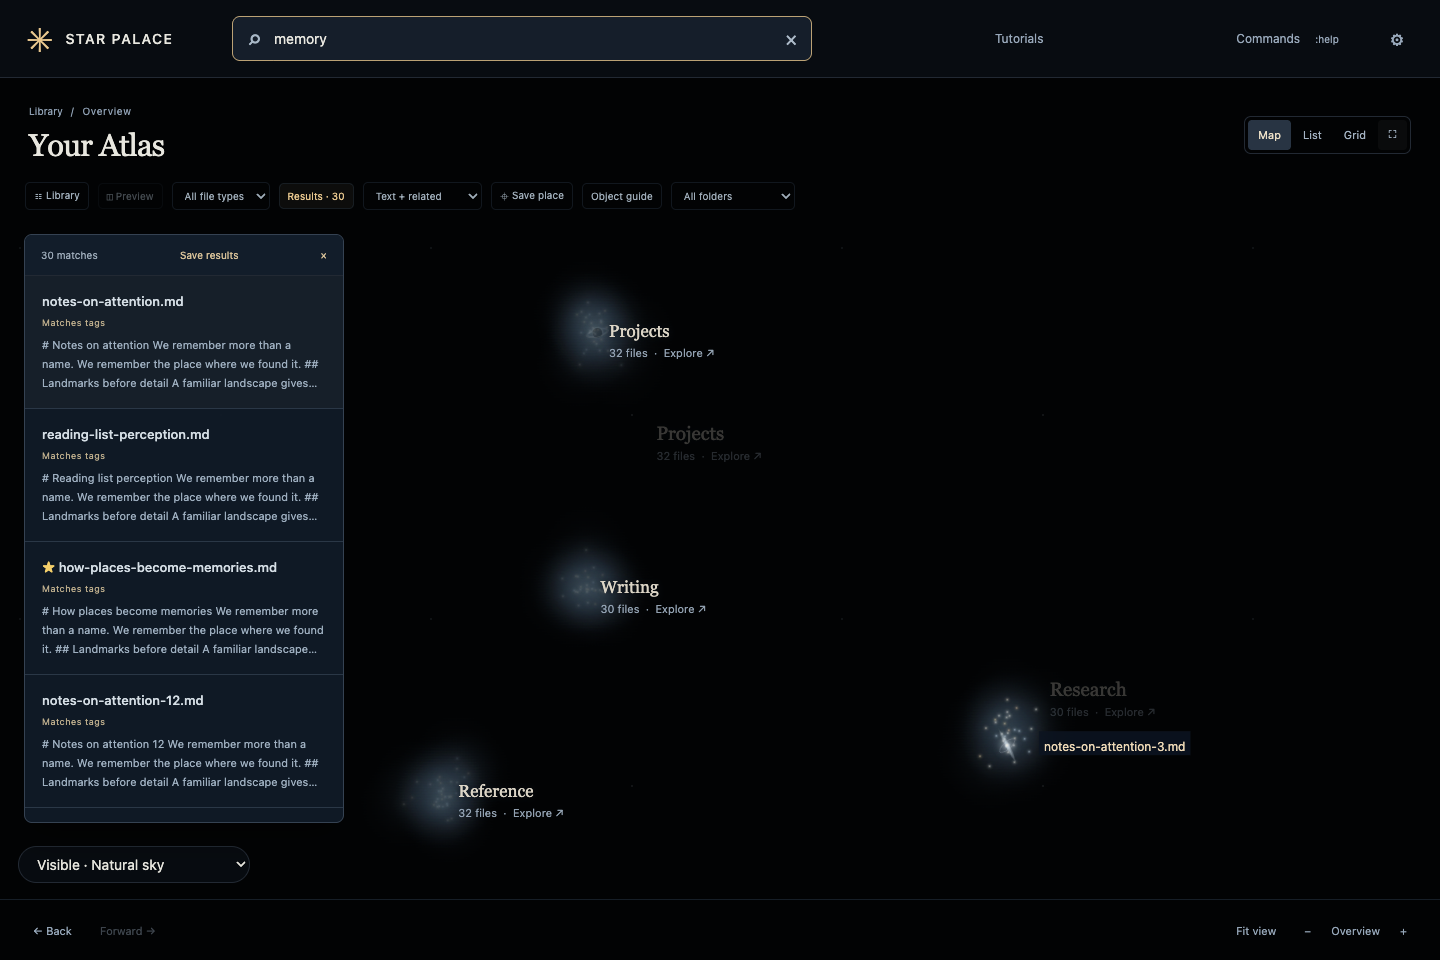
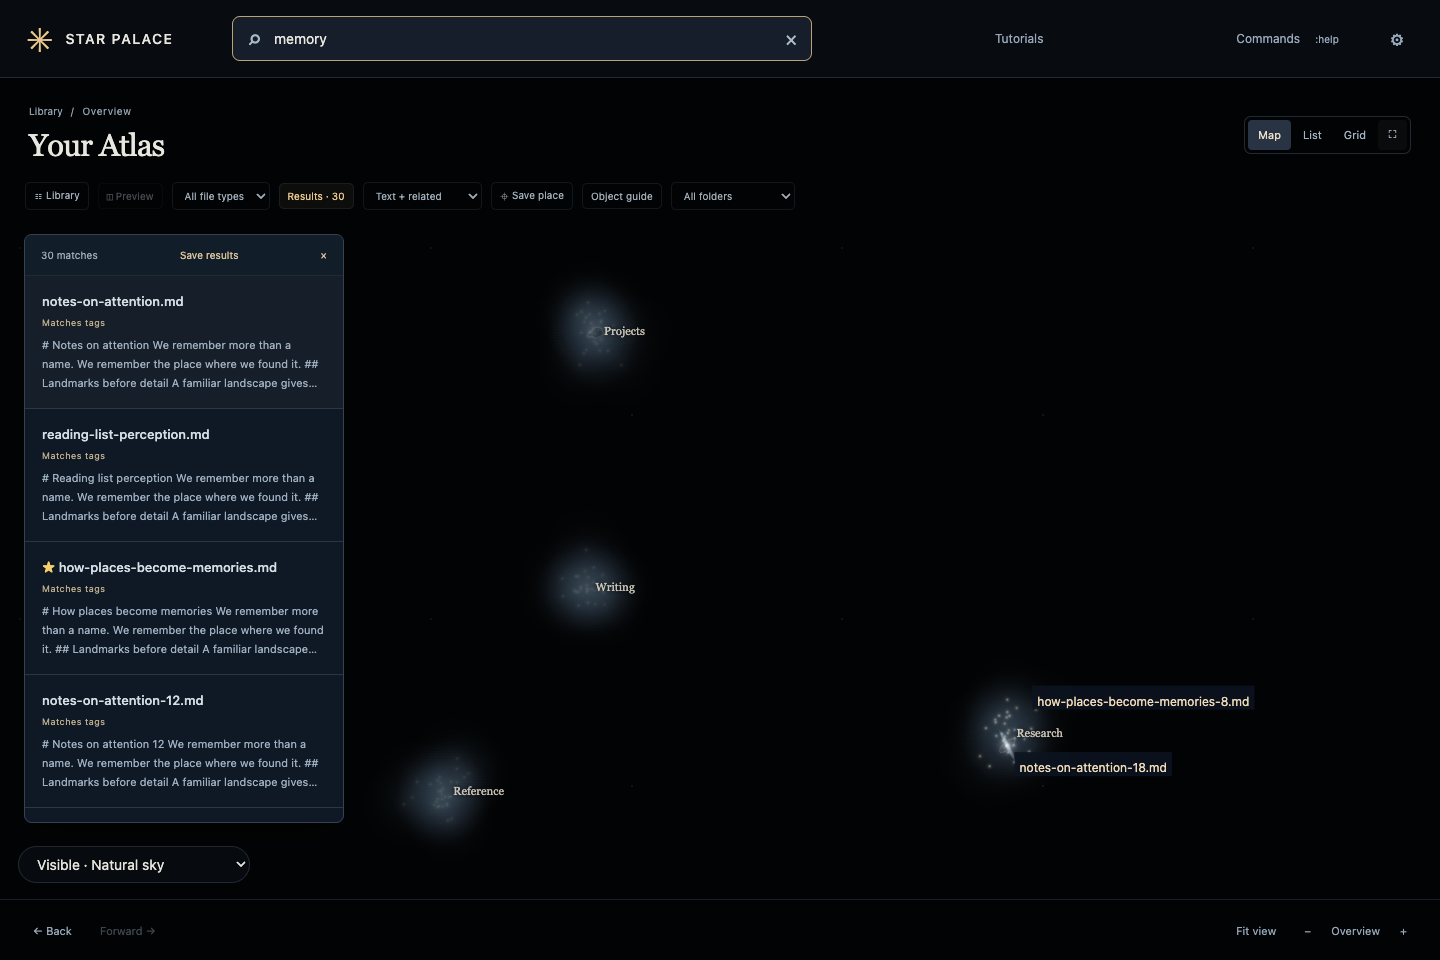
fix: keep small cluster headings visible across atlas zoom

diff --git a/src/renderer/src/atlas/tutorialCatalog.ts b/src/renderer/src/atlas/tutorialCatalog.ts
@@ -2,7 +2,7 @@ export interface Tutorial { id: string; title: string; image: string; alt: strin
 export const TUTORIALS: Tutorial[] = [
   { id: 'sources', title: 'Sources and indexing', image: 'sources', alt: 'The source dialog with a folder field and indexing controls.', steps: ['Open Library → Manage sources → Index folder. Enter the absolute path of a folder and give it a recognizable name.', 'Start indexing. Names and text are available without a model; related-meaning search requires the optional local embedding model.', 'Use Stop on the progress indicator to cancel. Completed files are kept. Reindex a source to discover new files; enabled text history also refreshes tracked text after edits.'] },
   { id: 'search', title: 'Search', image: 'search', alt: 'Search results beside the atlas, with filenames and matching excerpts.', steps: ['Press / or ⌘/Ctrl K and type a filename, folder name, or phrase from a document.', 'Use Names & text for literal retrieval, Related meaning for model-based matches, or Text + related for both. Source, region, type, and collection filters remain active.', 'Use arrow keys and Enter, or click a result, to visit the file. Results can be collapsed while their highlights remain visible. Searching itself leaves your camera in place.'] },
-  { id: 'navigation', title: 'Navigation and panels', image: 'atlas', alt: 'The fictional atlas with Library, Preview, map controls, and observing lenses.', steps: ['Drag to pan and scroll to zoom toward the pointer. Click a star to preview its file; click a region heading to explore that neighborhood.', 'Library, Preview, and Results show or hide their panels. Expand in the preview opens a spacious reader.', 'Map, List, and Grid are alternate ways to browse the same files. Fit view frames your current view; Your atlas returns to the overview.'] },
+  { id: 'navigation', title: 'Navigation and panels', image: 'atlas', alt: 'The fictional atlas with Library, Preview, map controls, and observing lenses.', steps: ['Drag to pan and scroll to zoom toward the pointer. Small cluster names stay attached to their places as you zoom. Click a star to preview its file; click a cluster heading to explore that neighborhood.', 'Library, Preview, and Results show or hide their panels. Expand in the preview opens a spacious reader.', 'Map, List, and Grid are alternate ways to browse the same files. Fit view frames your current view; Your atlas returns to the overview.'] },
   { id: 'fullscreen', title: 'Fullscreen', image: 'fullscreen', alt: 'The galaxy fills the app window with a small Exit control.', steps: ['Click the expand symbol near the upper-right corner, or run :fullscreen. The atlas fills the app window.', 'Press / or ⌘/Ctrl K for a search overlay. Escape dismisses the overlay first; another Escape leaves fullscreen.', 'Leaving fullscreen restores your previous panels and view. This is an immersive app view; macOS or browser fullscreen remains available separately.'] },
   { id: 'lenses', title: 'Wavelength lenses', image: 'lenses', alt: 'The recent-change lens, with a legend explaining blue, ivory, and gold stars.', steps: ['Use the Wavelength lens control in the lower-left corner of the map.', 'Ultraviolet emphasizes recent file modification times. Infrared colors stars by file size. Radio brings out folder lines and similarity clouds. The legend explains each view.', 'Choose Visible to return to the natural sky. These are observing metaphors: switching lenses keeps the same file positions, selection, and camera.'] },
   { id: 'constellations', title: 'Constellations and nebulae', image: 'connections', alt: 'The Radio lens emphasizes faint folder connections in the fictional atlas.', steps: ['Use All folders, Selected folder, or Constellations off to control faint lines connecting direct folder siblings.', 'Radio temporarily reveals all folder connections. Return to Visible to restore your usual line setting.', 'Colored nebulae mark matching content or strong indexed semantic relationships. Folder membership alone does not make a similarity nebula. Illustrated figures and hand-drawn asterisms are future features.'] },

diff --git a/src/renderer/src/atlas/labelPainter.ts b/src/renderer/src/atlas/labelPainter.ts
@@ -13,10 +13,11 @@ export interface MapLabel {
   priority: number
   selected?: boolean
   background?: boolean
+  persistent?: boolean
 }
 interface Entry { label: MapLabel; opacity: number }
 
-/** Retain readable labels, independent of hover; resolve collisions before fading. */
+/** Cluster names are fixed landmarks; only file captions compete and fade. */
 export class LabelPainter {
   private entries = new Map<string, Entry>()
   private lastAt = 0
@@ -25,8 +26,26 @@ export class LabelPainter {
   draw(ctx: CanvasRenderingContext2D, candidates: MapLabel[], camera: Camera, width: number, height: number, budget: number): { count: number; pending: boolean } {
     const now = performance.now(), elapsed = this.lastAt ? Math.min(50, now - this.lastAt) : 16
     this.lastAt = now
-    const current = new Map(candidates.map(label => [label.id, label]))
-    for (const label of candidates) {
+    const used: LabelBox[] = []
+    let count = 0, pending = false
+    this.visibleIds = []
+    for (const label of candidates.filter(label => label.persistent)) {
+      this.entries.delete(label.id)
+      const [x, y] = project(label.x, label.y, camera, width, height)
+      ctx.font = label.font
+      const metrics = ctx.measureText(label.title)
+      const box = { x: x + label.offset, y: y - 10, width: metrics.width, height: 19 }
+      // Let the canvas clip naturally: no edge clamping or competing placements.
+      if (box.x + box.width < 0 || box.x > width || box.y + box.height < 0 || box.y > height) continue
+      ctx.globalAlpha = label.opacity; ctx.fillStyle = label.color
+      ctx.shadowColor = '#030405'; ctx.shadowBlur = 5
+      ctx.fillText(label.title, box.x, y + 4)
+      ctx.shadowBlur = 0
+      used.push(box); count++; this.visibleIds.push(label.id)
+    }
+    const persistentCount = count
+    const current = new Map(candidates.filter(label => !label.persistent).map(label => [label.id, label]))
+    for (const label of current.values()) {
       const entry = this.entries.get(label.id)
       if (entry) entry.label = label
       else this.entries.set(label.id, { label, opacity: 0 })
@@ -35,9 +54,6 @@ export class LabelPainter {
       Number(!!b.label.selected) - Number(!!a.label.selected) ||
       Number(b.opacity > .05) - Number(a.opacity > .05) ||
       b.label.priority - a.label.priority || a.label.id.localeCompare(b.label.id))
-    const used: LabelBox[] = []
-    let count = 0, pending = false
-    this.visibleIds = []
     for (const entry of ordered) {
       const label = entry.label, [x, y] = project(label.x, label.y, camera, width, height)
       ctx.font = label.font
@@ -47,7 +63,7 @@ export class LabelPainter {
       // Clamp smoothly at the edge. Never flip the whole heading to the other side.
       const box = { x: Math.max(8, Math.min(width - labelWidth - 15, x + label.offset)), y: y - 10, width: labelWidth, height: label.subtitle ? 43 : 24 }
       let target = current.get(label.id)?.opacity ?? 0
-      if (x < 0 || x > width || box.y < 8 || box.y + box.height > height - 65 || count >= budget || !labelFits(box, used)) target = 0
+      if (x < 0 || x > width || box.y < 8 || box.y + box.height > height - 65 || count - persistentCount >= budget || !labelFits(box, used)) target = 0
       entry.opacity += (target - entry.opacity) * (1 - Math.exp(-elapsed / 65))
       if (Math.abs(target - entry.opacity) < .008) entry.opacity = target
       else pending = true

diff --git a/src/renderer/src/atlas/AtlasMap.tsx b/src/renderer/src/atlas/AtlasMap.tsx
@@ -1,6 +1,7 @@
 import { lensAppearance } from './lenses'
 import type { AtlasLens } from '@shared/atlas'
 import { LabelPainter, type MapLabel } from './labelPainter'
+import { clusterLabelRegions, regionLabelSize } from './regionLabels'
 import { galaxyHaze } from './galaxyHaze'
 import { fileStellarAppearance } from './stellarVisual'
 import { useAtlasTiles } from './useAtlasTiles'
@@ -192,26 +193,20 @@ export const AtlasMap = forwardRef<MapHandle, Props>(function AtlasMap(props, re
     const { regions, files, selectedId, highlights, theme } = latest.current
     const labelCandidates: MapLabel[] = [], hitTargets: HitTarget[] = []
     const themeColors = THEMES[theme] ?? THEMES.jwst
-    // Labels are capped by the viewport, with selected/search/hover first.
+    // File captions have a viewport budget; cluster headings stay present.
     const labelBudget = Math.min(70, Math.max(10, Math.floor(width * height / 16000)))
-    const levelAlpha = (region: AtlasRegion): number => {
-      const smooth = (a: number, b: number) => { const t = Math.max(0, Math.min(1, (camera.current.zoom - a) / (b - a))); return t * t * (3 - 2 * t) }
-      return region.kind === 'region' ? 1 - smooth(.09, .22) : smooth(.07, .18) * (1 - smooth(.65, 1.3))
-    }
-    for (const region of regions) {
-      const opacity = levelAlpha(region)
-      if (opacity < .05) continue
+    for (const region of clusterLabelRegions(regions)) {
       const [x, y] = project(region.x, region.y, camera.current, width, height)
-      if (x < -100 || y < -60 || x > width + 100 || y > height + 60) continue
+      if (x < -250 || y < -60 || x > width + 100 || y > height + 60) continue
       hitTargets.push({ id: region.id, x, y, radius: Math.max(50, Math.min(140, region.radius * camera.current.zoom * .7)), region })
-      const fontSize = region.kind === 'region' ? 19 : 17
+      const fontSize = regionLabelSize(camera.current.zoom)
       ctx.font = `${fontSize}px Georgia, serif`
       const maxWidth = Math.min(220, width * .38)
       let title = region.label
       while (title.length > 4 && ctx.measureText(title).width > maxWidth) title = title.slice(0, -2).replace(/…$/, '') + '…'
-      labelCandidates.push({ id: region.id, x: region.x, y: region.y, offset: 15, title,
-        subtitle: region.count.toLocaleString() + ' files  ·  Explore ↗', color: themeColors.label,
-        font: `${fontSize}px Georgia, serif`, opacity: opacity * .95, priority: region.count })
+      labelCandidates.push({ id: region.id, x: region.x, y: region.y, offset: 10, title,
+        color: themeColors.label, persistent: true,
+        font: `${fontSize}px Georgia, serif`, opacity: .85, priority: region.count })
     }
     if (camera.current.zoom > .25) {
       const hydrated = new Set(files.map(f => f.id))

diff --git a/tests/renderer/regionLabels.test.ts b/tests/renderer/regionLabels.test.ts
@@ -1,0 +1,34 @@
+import { describe, expect, it } from 'vitest'
+import { LabelPainter, type MapLabel } from '../../src/renderer/src/atlas/labelPainter'
+import { clusterLabelRegions, regionLabelSize } from '../../src/renderer/src/atlas/regionLabels'
+import type { AtlasRegion } from '../../src/shared/atlas'
+
+describe('Persistent cluster headings', () => {
+  it('keeps leaf names and childless regions instead of swapping hierarchy at zoom thresholds', () => {
+    const regions = [{ id: 'root' }, { id: 'child', parentId: 'root' }, { id: 'only-root' }] as AtlasRegion[]
+    expect(clusterLabelRegions(regions).map(r => r.id)).toEqual(['child', 'only-root'])
+    expect(regionLabelSize(.003)).toBeLessThan(10.1)
+    expect(regionLabelSize(120)).toBeLessThanOrEqual(14)
+    for (const zoom of [.07, .09, .18, .22, .65, 1.3]) expect(Math.abs(regionLabelSize(zoom + .001) - regionLabelSize(zoom - .001))).toBeLessThan(.03)
+  })
+
+  it('keeps overlapping headings visible through zoom, selection, and a zero caption budget', () => {
+    const drawn: { title: string; alpha: number; x: number }[] = []
+    const ctx = { globalAlpha: 1, measureText: () => ({ width: 80 }), fillText(this: { globalAlpha: number }, title: string, x: number) { drawn.push({ title, alpha: this.globalAlpha, x }) } } as unknown as CanvasRenderingContext2D
+    const painter = new LabelPainter()
+    const heading: MapLabel = { id: 'a', x: 0, y: 0, offset: 10, title: 'Incoming', color: '#fff', font: '11px Georgia', opacity: .85, priority: 1, persistent: true }
+    const captions = [heading, { ...heading, id: 'b', title: 'Research', x: 1 }, { ...heading, id: 'file', persistent: false, selected: true, title: 'Selected file' }]
+    for (const zoom of [.003, .08, .17, .7, 1.31, 120, .1]) {
+      drawn.length = 0
+      const result = painter.draw(ctx, captions, { x: 0, y: 0, zoom }, 800, 600, 0)
+      expect(painter.visibleIds).toEqual(['a', 'b'])
+      expect(drawn.map(({ title, alpha }) => ({ title, alpha }))).toEqual([{ title: 'Incoming', alpha: .85 }, { title: 'Research', alpha: .85 }])
+      expect(result.pending).toBe(false)
+    }
+    drawn.length = 0
+    painter.draw(ctx, [heading], { x: 420, y: 0, zoom: 1 }, 800, 600, 0)
+    expect(drawn[0].x).toBe(-10) // A partially clipped heading never sticks to the edge.
+    painter.draw(ctx, [], { x: 0, y: 0, zoom: 1 }, 800, 600, 0)
+    expect(painter.visibleIds).toEqual([])
+  })
+})

diff --git a/tests/browser/atlas.spec.ts b/tests/browser/atlas.spec.ts
@@ -215,6 +215,33 @@ test('wheel zoom crosses detail levels without scope changes, anchor drift, or l
 })
 
 
+test('a cluster heading stays visible across every former zoom fade threshold', async ({ page }) => {
+  const scene = page.locator('.atlas-map')
+  await expect(scene).toHaveAttribute('data-labels', /[a-f0-9]/)
+  const summary = await page.request.get((process.env.STARPALACE_TEST_API ?? 'http://127.0.0.1:7374/api/atlas') + '/summary').then(r => r.json())
+  const box = (await scene.boundingBox())!
+  const camera = JSON.parse((await scene.getAttribute('data-camera'))!)
+  const visible = (await scene.getAttribute('data-labels'))!.split(',')
+  const parents = new Set(summary.regions.map((r: { parentId: string }) => r.parentId))
+  const region = summary.regions.find((r: { id: string; x: number; y: number }) => {
+    const x = (r.x - camera.x) * camera.zoom + box.width / 2, y = (r.y - camera.y) * camera.zoom + box.height / 2
+    return !parents.has(r.id) && visible.includes(r.id) && x > 70 && x < box.width - 200 && y > 70 && y < box.height - 100
+  })
+  expect(region).toBeTruthy()
+  for (let i = 0; i < 22; i++) {
+    // WheelEvent coordinates round to pixels in Chrome. Track the actual heading
+    // so a subpixel seed offset doesn't magnify offscreen at extreme zoom.
+    const current = JSON.parse((await scene.getAttribute('data-camera'))!)
+    const anchor = { x: box.x + (region.x - current.x) * current.zoom + box.width / 2, y: box.y + (region.y - current.y) * current.zoom + box.height / 2 }
+    await scene.locator('.atlas-label-canvas').evaluate((canvas, at) => {
+      canvas.dispatchEvent(new WheelEvent('wheel', { clientX: at.x, clientY: at.y, deltaY: -300, bubbles: true, cancelable: true }))
+      return new Promise(resolve => requestAnimationFrame(() => requestAnimationFrame(resolve)))
+    }, anchor)
+    expect((await scene.getAttribute('data-labels'))!.split(',')).toContain(region.id)
+  }
+  expect(JSON.parse((await scene.getAttribute('data-camera'))!).zoom).toBeGreaterThan(1.3)
+})
+
 test('hover does not reshuffle headings or keep the map repainting', async ({ page }) => {
   const scene = page.locator('.atlas-map')
   await expect(scene).toHaveAttribute('data-labels', /[a-f0-9]/)

diff --git a/src/renderer/src/atlas/regionLabels.ts b/src/renderer/src/atlas/regionLabels.ts
@@ -1,0 +1,12 @@
+import type { AtlasRegion } from '@shared/atlas'
+
+/** One stable heading per leaf cluster; don't swap parent/child names on zoom. */
+export function clusterLabelRegions(regions: AtlasRegion[]): AtlasRegion[] {
+  const parents = new Set(regions.map(region => region.parentId).filter(Boolean))
+  return regions.filter(region => !parents.has(region.id))
+}
+
+/** Screen-space type stays small at overview and grows gently to 14px. */
+export function regionLabelSize(zoom: number): number {
+  return 10 + 4 * Math.max(0, zoom) / (Math.max(0, zoom) + .3)
+}

diff --git a/docs/revamp-progress.md b/docs/revamp-progress.md
@@ -148,3 +148,9 @@ All new capture, update, and screenshot validation used disposable repositories 
 Rollback baseline: `19cf3fe`. Revert the release commits to remove these controls. Preserve any `text-history.git` archive when rolling back so recorded file versions are not lost; the additional opt-in SQLite table can remain unused.
 
 The first commit hook exposed inherited Git routing variables in the disposable update tests: they redirected fixture commits to the atlas ref and changed the shared bare flag. No remote push occurred. Working files were preserved, the accidental commits were retained locally on `recovery/hook-fixtures-20260905`, and the atlas ref/index and shared bare flag were restored to their verified pre-release state. The original checkout’s status matched its initial pre-existing edits after repair. The process helper now removes inherited Git repository/index/config-routing variables, and a regression verifies both ordinary and bare child repositories leave their caller unchanged. Fixture tests also assert their disposable top-level before running any add/commit/reset.
+
+## Persistent cluster headings
+
+The user requested small, persistent nebula/region names after another distracting label episode. The old headings cross-faded between parent and child levels and competed with file captions. The map now labels each leaf cluster consistently (using a region itself only when it has no children). Type grows continuously from 10px at distant overview toward a 14px ceiling. Removed the secondary file-count/Explore line. Cluster names retain constant opacity, bypass the caption collision budget, and remain anchored as their text clips naturally at the viewport edge; file captions retain collision handling. Extremely compressed clusters may have overlapping names rather than alternating visibility.
+
+Validation: 465 unit/integration tests passed, typecheck/lint and renderer build passed. The 15 existing atlas browser checks passed, and the added persistent-heading zoom regression passed separately after correcting synthetic WheelEvent pixel rounding in its pointer tracking. Updated the navigation tutorial text and six map screenshots using the isolated fictional library. No layout or data changes. Rollback baseline: `5b43739`.

diff --git a/AGENTS.md b/AGENTS.md
@@ -75,7 +75,7 @@ Close-up generation remains bounded (16 slots, two generations per frame); never
 - `src/daemon/atlas/organicLayout.ts` preserves the legacy semantic projection, separates coincident files locally, and places model-free files using neighbors/folders. File positions remain fixed during ordinary indexing.
 - `AtlasStore.summary()` returns real file markers at their persistent world coordinates. Coarse views must not substitute invented stars at unrelated positions.
 - `src/renderer/src/atlas/useAtlasTiles.ts` hydrates bounded spatial viewports. A data response must never move the camera.
-- `src/renderer/src/atlas/labelPainter.ts` retains visible labels and fades visibility changes. Hover must not reorder headings or flip their placement.
+- `src/renderer/src/atlas/regionLabels.ts` selects one persistent name per leaf cluster (or childless region), with small 10–14px type. `labelPainter.ts` anchors those names without zoom fades, collision eviction, or edge clamping. File captions retain their separate collision/fade budget. Hover must not reorder headings or flip their placement.
 - Wheel/trackpad gestures update the camera directly; do not restart an easing animation on each event. Buttons and explicit navigation may animate.
 - Scrolling changes one camera continuously; it must not change navigation scope or restore another camera. Explicit navigation may animate to a destination. Layout epochs invalidate cameras after an explicit reshaping/restore.
 - `scripts/reshape-atlas.ts` is an explicit, isolated-copy-only review helper, with a database backup and snapshot. Never run it against the primary library.
